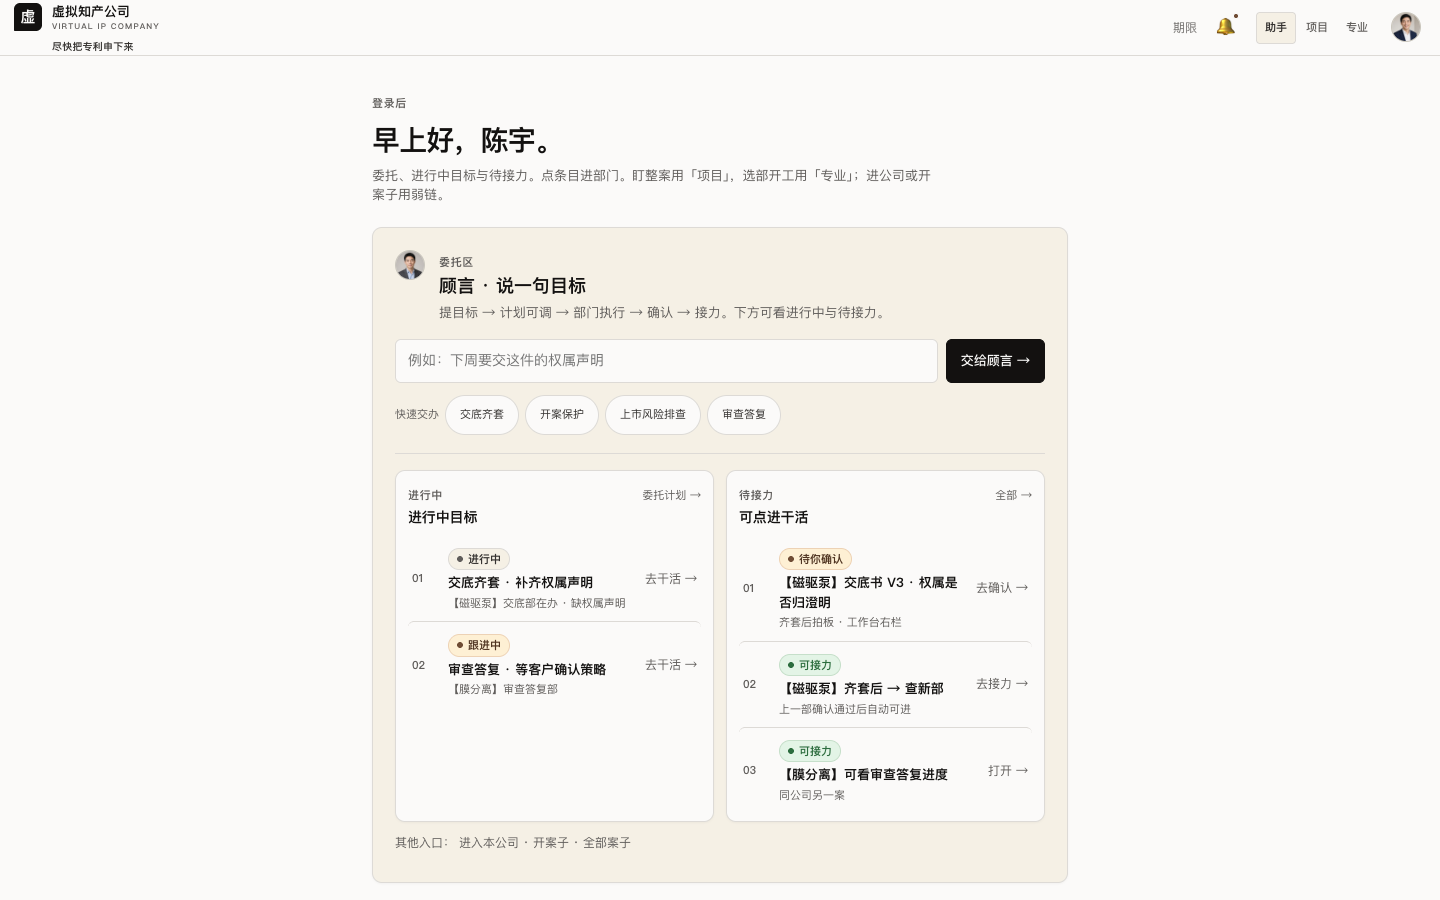
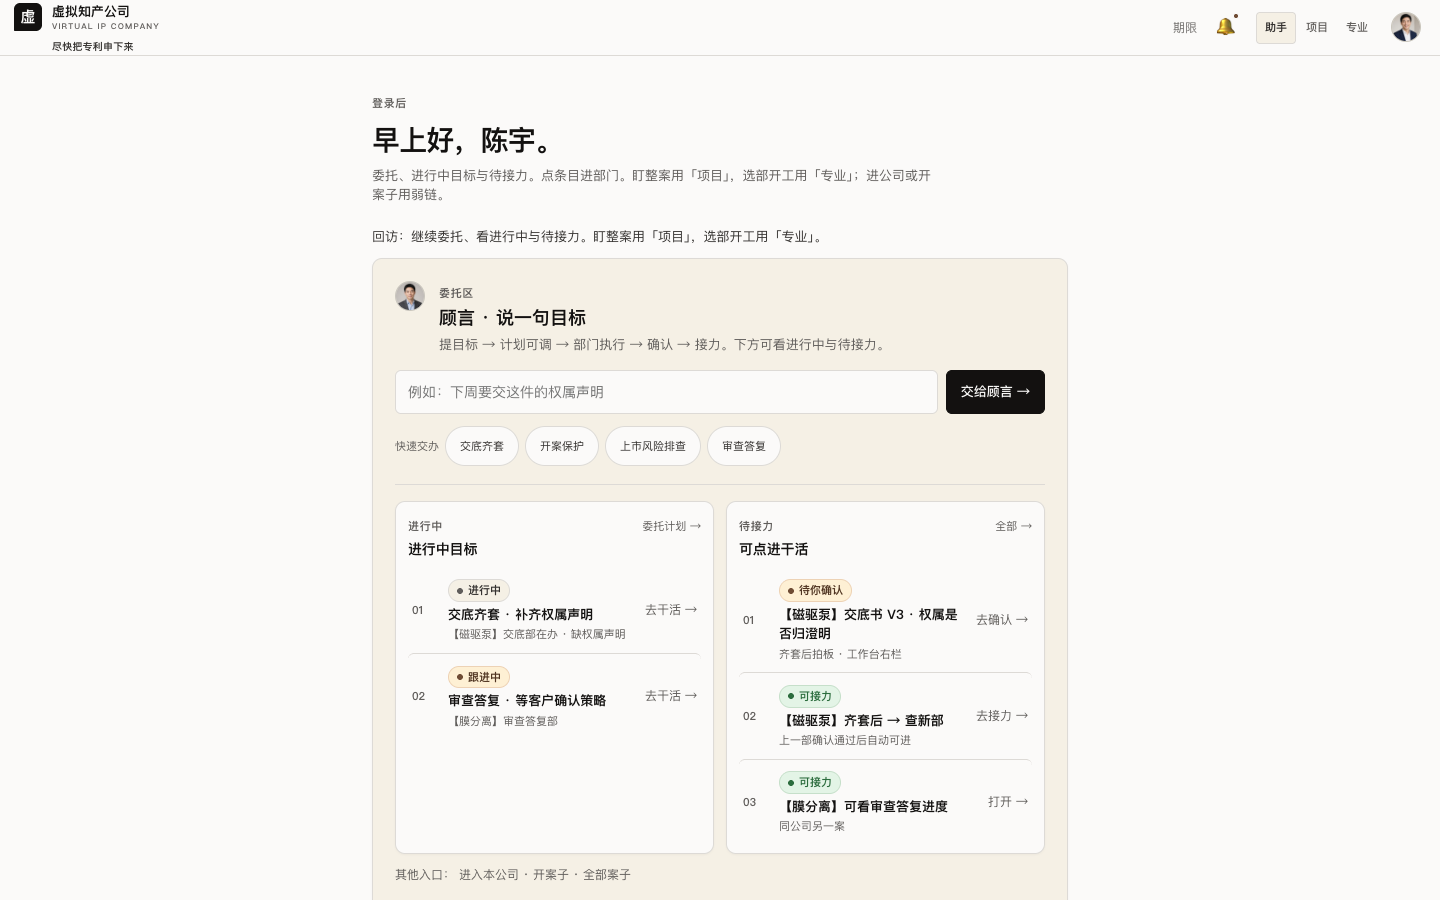
docs+proto: 三必答改右栏常显；禁顶墙/绿快照横幅
Leslie 截图批：工作台顶「当前目标/卡点/下一步/谁在干」大条与绿交付快照横幅不对齐 fix-both。
- 卡点/下一步/谁在干 → 右栏 .rail-triad（缺项 chip 旁）
- 交付快照 → 弱链/审计入口；禁主舞台绿横幅
- 中栏只留干净文书；公司当前节点卡保留
- pages/vision：工作台头须常显 → 右栏常显三必答
- accept-close：断言无顶墙、右栏三必答、无中栏头顶三格

diff --git a/docs/prototype/main-path-v2/app.js b/docs/prototype/main-path-v2/app.js
@@ -1011,7 +1011,8 @@
 
   
   function wireWorkbenchInform() {
-    const box = document.querySelector('[data-workbench-inform]');
+    // 三必答只填右栏；禁工作台顶墙 / 绿快照横幅
+    const box = document.querySelector('.rail-triad[data-workbench-inform], [data-workbench-inform]');
     if (!box) return;
     const cur = activeCase() || {};
     const b = box.querySelector('[data-wb-block]');
@@ -1020,13 +1021,11 @@
     if (b) b.textContent = cur.block || '本站进行中';
     if (n) n.textContent = cur.next || '推进本站交卷';
     if (w) w.textContent = cur.who || ((cur.deptName || '本部门') + '在办');
-    // show dept snapshot one-liner if stored
     const snap = getSnapshot && getSnapshot();
-    const slot = document.querySelector('[data-dept-snapshot]');
-    if (slot && snap && snap.fact) {
-      slot.classList.remove('hidden');
-      const line = slot.querySelector('[data-snap-one-liner]');
-      if (line) line.textContent = (snap.deptName || snap.dept || '本站') + '已确认：' + (snap.fact || snap.deliverable || '见确认记录');
+    const link = document.querySelector('[data-dept-snapshot-link]');
+    if (link && snap && (snap.fact || snap.deliverable)) {
+      link.textContent = '交付快照 · ' + ((snap.deptName || '本站') + '已确认') + ' →';
+      link.setAttribute('title', snap.fact || snap.deliverable || '');
     }
   }
 
@@ -1432,7 +1431,7 @@
     }
     const short = goal.length > 48 ? goal.slice(0, 48) + '…' : goal;
     if (banner) {
-      banner.hidden = false;
+      banner.hidden = true; // 禁顶墙；不展示当前目标大条
       const label = banner.querySelector('.dept-goal-label');
       if (label) label.textContent = '当前目标';
       const strong = banner.querySelector('[data-goal-context]');
@@ -1448,20 +1447,15 @@
 
   /** 交底→查新等接力落地：页头一句 + 中栏交卷物已展开（非空转） */
   function applyRelayHandoff(dept) {
-    const banner = document.getElementById('dept-goal-banner');
-    if (!banner || !dept) return;
+    if (!dept) return;
     const d = getDelegation() || {};
     const want = qs('relay') === '1' || (d.step === 'relay' && d.next === dept.id);
     if (!want) return;
     const last = d.lastDept && DEPTS[d.lastDept] ? DEPTS[d.lastDept] : null;
-    const label = banner.querySelector('.dept-goal-label');
-    const strong = banner.querySelector('[data-goal-context]');
-    banner.hidden = false;
-    if (label) label.textContent = '接力接手';
-    if (strong) {
-      strong.textContent = (last ? last.name + '已通过 · ' : '') +
-        '本台中栏已打开「' + dept.deliverable + '」';
-    }
+    // 禁顶墙：接力提示用 toast，不展开工作台顶大条
+    try {
+      toast((last ? last.name + '已通过 · ' : '') + '本台中栏已打开「' + dept.deliverable + '」');
+    } catch (_) {}
     const editor = document.getElementById('dept-editor');
     if (editor) {
       try { editor.scrollIntoView({ behavior: 'smooth', block: 'nearest' }); } catch (e) {}
@@ -2337,7 +2331,7 @@
         }
         if (card) card.classList.add('hidden');
         if (snap) {
-          snap.classList.add('show');
+          /* 禁绿横幅 */ try { wireWorkbenchInform(); } catch (_) {} // was snap.classList.add('show')
           const nextName = dept.next && DEPTS[dept.next] ? DEPTS[dept.next].name : '本案收尾';
           snap.querySelector('[data-snap-deliverable]').textContent = dept.deliverable;
           snap.querySelector('[data-snap-fact]').textContent = dept.pendingFact;

diff --git a/docs/prototype/main-path-v2/dept.html b/docs/prototype/main-path-v2/dept.html
@@ -92,24 +92,7 @@
 </aside>
 
 <main class="content content-workbench">
-  <div class="dept-goal-banner" id="dept-goal-banner" hidden>
-    <span class="dept-goal-label">当前目标</span>
-    <strong data-goal-context>—</strong>
-  </div>
-  <!-- 九要素压成三必答：卡点 / 下一步 / 谁在干（不新开确认页） -->
-  <section class="workbench-inform" data-workbench-inform aria-label="本站必答">
-    <ul class="case-inform-list">
-      <li><span class="case-inform-k">卡点</span><strong data-wb-block>缺权属声明，还不能交出去</strong></li>
-      <li><span class="case-inform-k">下一步</span><strong data-wb-next>补齐权属并送确认</strong></li>
-      <li><span class="case-inform-k">谁在干</span><strong data-wb-who>权属核验专家在办 · 待你确认</strong></li>
-    </ul>
-    <p class="workbench-inform-hint">细则见右栏契约；确认后见交付快照 · <a class="weak-link" href="confirm-log.html" data-keep-role>确认记录</a></p>
-  </section>
-  <div class="snapshot-card hidden" data-success-snapshot data-dept-snapshot aria-label="本站交付快照">
-    <h3>交付快照</h3>
-    <p data-snap-one-liner>确认通过后这里会出现本站交卷摘要一句。</p>
-    <a class="weak-link" href="confirm-log.html" data-keep-role>确认记录 / 历史 →</a>
-  </div>
+  <!-- fix-both / L1–L5：禁工作台顶信息墙与绿快照横幅；三必答落右栏 -->
   <!-- Cursor 三栏骨架：左目录 / 中可编辑产物 / 右对话 -->
   <div class="workbench workbench-cursor" data-workbench data-tier-workbench>
 
@@ -220,6 +203,12 @@
               <span class="gap-chip-meta">已齐 <span class="tabular" data-check-count>0 / 4</span></span>
             </button>
           </div>
+          <!-- 三必答：右栏紧凑（缺项 chip / 闸叙事旁）；禁工作台顶墙 -->
+          <section class="rail-triad" data-workbench-inform aria-label="卡点下一步谁在干">
+            <p class="rail-triad-row"><span class="case-inform-k">卡点</span> <strong data-wb-block>缺权属声明，还不能交出去</strong></p>
+            <p class="rail-triad-row"><span class="case-inform-k">下一步</span> <strong data-wb-next>补齐权属并送确认</strong></p>
+            <p class="rail-triad-row"><span class="case-inform-k">谁在干</span> <strong data-wb-who>权属核验专家在办 · 待你确认</strong></p>
+          </section>
           <div class="rail-chat-head">
             <div class="rail-chat-who">
               <strong data-chat-peer-name>本部门负责人</strong>
@@ -254,6 +243,16 @@
           </dl>
         </details>
         <a class="guyan-thin-link" href="delegate.html" data-keep-role>顾言 · 跨部 / 改目标</a>
+        <p class="rail-audit-link">
+          <a class="weak-link" href="confirm-log.html" data-keep-role data-dept-snapshot-link>确认记录 / 交付快照 →</a>
+          <span class="rail-audit-hint">只读查阅 · 不抢右栏闸</span>
+        </p>
+        <!-- 隐藏锚：通过后只更新弱链文案，不弹绿横幅 -->
+        <span class="visually-hidden" data-success-snapshot data-dept-snapshot hidden aria-hidden="true">
+          <span data-snap-one-liner></span>
+          <span data-snap-deliverable></span>
+          <span data-snap-fact></span>
+        </span>
 
         <!-- 缺项抽屉/sheet：清单+交卷/闸；勿放发送下；开时勿长期挤死消息流 -->
         <div class="gap-drawer" id="gap-drawer" data-gap-panel hidden>

diff --git a/docs/prototype/main-path-v2/shell.css b/docs/prototype/main-path-v2/shell.css
@@ -3911,12 +3911,25 @@ html[data-mode="assistant"] [data-company-fold="depts"] { display: none; }
 .company-node-meta dd { margin: 0; font-size: 13px; font-weight: 600; }
 .company-node-status { margin: 0; font-size: 13px; color: var(--ink-2); }
 
-/* 工作台三必答 */
-.workbench-inform {
-  display: flex; flex-wrap: wrap; align-items: baseline; justify-content: space-between; gap: 10px 16px;
-  margin: 0 0 12px; padding: 10px 14px; border: 1px solid var(--line); border-radius: 10px; background: var(--paper);
+/* 三必答：仅右栏紧凑；禁工作台顶墙 */
+.workbench-inform:not(.rail-triad) { display: none !important; }
+.rail-triad {
+  display: grid; gap: 4px; margin: 0 0 8px; padding: 8px 10px;
+  border: 1px solid var(--line); border-radius: 8px; background: var(--paper);
+  font-size: 12px; line-height: 1.35;
 }
-.workbench-inform .case-inform-list { margin: 0; }
-.workbench-inform-hint { margin: 0; font-size: 12px; color: var(--ink-3); }
+.rail-triad-row { margin: 0; color: var(--ink-2); }
+.rail-triad-row .case-inform-k { display: inline-block; min-width: 2.5em; color: var(--ink-3); font-size: 11px; }
+.rail-triad-row strong { font-weight: 600; color: var(--ink); font-size: 12px; }
+.rail-audit-link { margin: 6px 0 0; font-size: 12px; display: flex; flex-wrap: wrap; gap: 6px; align-items: baseline; }
+.rail-audit-hint { color: var(--ink-3); font-size: 11px; }
+.visually-hidden {
+  position: absolute !important; width: 1px; height: 1px; padding: 0; margin: -1px;
+  overflow: hidden; clip: rect(0,0,0,0); white-space: nowrap; border: 0;
+}
+/* 禁主舞台绿快照横幅 */
+.content-workbench > .snapshot-card,
+.content-workbench > .success-snapshot,
+.content-workbench > .workbench-inform { display: none !important; }
 
 .home-visit-tip { margin: 0 0 12px; font-size: 13px; color: var(--ink-2); }

diff --git a/docs/lifecycle/product-pages.md b/docs/lifecycle/product-pages.md
@@ -208,7 +208,7 @@
 
 > 对齐 Kimi「本节点工作契约」+ vision 部门「输入契约 · 交卷」。**各部共用契约字段骨架**，只换交卷物 / 齐套 / 专家（见 §4.4–4.10 导语）。落在部门头或右栏**折叠**契约区，一屏可读。
 >
-> **九要素 → 三必答（借鉴信息、不抄 UI）**：阶段名 / 在干什么 / 短步骤 / 负责部 / 节点交付 / 接力条件 / 确认点 / 输入 / 完成标准 —— 对外首屏压成 **卡点 · 下一步 · 谁在干**（工作台头须常显）；细则仍落契约六字段 + 公司「当前节点卡」。**禁**新开确认页；**禁**专业页当作业台。
+> **九要素 → 三必答（借鉴信息、不抄 UI）**：阶段名 / 在干什么 / 短步骤 / 负责部 / 节点交付 / 接力条件 / 确认点 / 输入 / 完成标准 —— 对外压成 **卡点 · 下一步 · 谁在干**——**右栏常显三必答**（缺项 chip / 确认闸叙事旁，紧凑）；**禁**工作台顶信息墙 / 中栏头顶仪表盘 / 主舞台绿「交付快照」横幅（快照=弱链·审计入口）。细则仍落契约六字段；公司「当前节点卡」留在项目认知面。**禁**新开确认页；**禁**专业页当作业台。
 
 | 字段 | 口径 |
 |---|---|
@@ -1243,3 +1243,4 @@
 | 2026-10-26 | **跟齐 vision `a0cfd0b` §3.1d · 三 tab 做满（Leslie 定 · 不合并）**：**保留三 tab**；清菜单墙后每档须满主内容、**禁空壳感**。助手=委托+进行中目标/待接力（不只聊天框）；项目=案况+案列表/最近案一体可见（公司不靠三折全关显得空）；专业=编制+「让该部开工」入口饱满（技能/MCP 仍默认收折进阶）。改文首权威 SHA/`定稿续` / §1 三档深度 / §1.1 真行为表+「三 tab 做满」表+验收⑨ / §4.0a 旁注 / §4.3 禁空折页 / §4.3a / §6 / §6.5 / §7。**不回退**右栏 `9793fbb`/`1523749`、三 tab 壳 `1f23fc4`/`77291ec`、案列表 `e31bdf5`/`6a98af8`、a11y/`3d40b10`、侧栏禁回潮/`cd3f3c6`/`20a5d98`、进阶可配。**禁改** apps/agent / docs/prototype；壳/原型本单不动。 |
 | 2026-10-26 | **跟齐 vision `e9053b5` §3.1d · 项目三态着陆 / home 仅助手 / 专业卡案况（Leslie 批改）**：点「项目」**一律三态**（活跃→公司做满页；无活跃→案盘；无案→开案子）；**取消**「有活跃=home 项目态」；首页/助手专管委托·进行中·待接力（弱链进公司/开案）；专业各部门卡补**当前在办/缺口**；技能/MCP 仍默认收折。改文首权威 SHA/`定稿续` / §1 三档深度 / §1.1 壳规则+首页专管委托+真行为+做满表+E2E-A+验收③⑨ / §4.0a / §4.3 / §4.3a / §6 / §6.5 / §7。**不回退**右栏 `9793fbb`/`1523749`、做满 `a0cfd0b`/`e6a3706`、案列表 `e31bdf5`/`6a98af8`、a11y/`3d40b10`、侧栏禁回潮。**禁改** apps/agent / docs/prototype；壳/原型本单不动。 |
 | 2026-10-26 | **Leslie 借鉴收口**：多对象分状态旁注；home 首次/回访分层；公司当前节点卡；工作台九要素→三必答；快照一句+审计弱链；专家=职责/Skill=方法；可专利性≠FTO。禁橙皮/侧栏墙/十部全图/独立确认页/专业当作业台。 |
+| 2026-10-26 | **Leslie 截图批纠偏**：工作台三必答改**右栏常显**（禁顶墙/绿快照横幅）；跟齐 fix-both / L1–L5；中栏只留干净文书。 |
